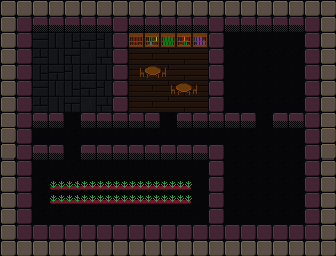
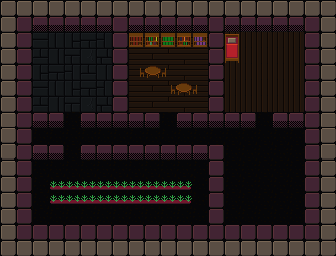
SleepHall WIP.

Changed region(s): [[0.6548, 0.125, 0.8631, 0.4375]]

diff --git a/room/service.go b/room/service.go
@@ -11,9 +11,10 @@ import (
 // Service for gathering data
 // and functionality related to rooms.
 type Service struct {
-	Storages  []Storage
-	Farms     []Farm
-	Libraries []Library
+	Storages   []Storage
+	SleepHalls []SleepHall
+	Farms      []Farm
+	Libraries  []Library
 }
 
 func NewService() *Service {
@@ -24,6 +25,15 @@ func (s *Service) Update(mp *m.Map) {
 	for _, f := range s.Farms {
 		f.Update(mp)
 	}
+}
+
+func (s *Service) AddSleepHall(mp *m.Map, currentMousePos int) {
+	x, y := globals.IdxToXY(currentMousePos)
+	sh := NewSleepHall(mp, x, y)
+	if sh == nil {
+		return
+	}
+	s.SleepHalls = append(s.SleepHalls, *sh)
 }
 
 func (s *Service) AddLibrary(mp *m.Map, currentMousePos int) {

diff --git a/ui/ui.go b/ui/ui.go
@@ -26,8 +26,10 @@ type UI struct {
 func GenerateUI() UI {
 	buildMenuButtons := []ButtonTiled{
 		{Element: Element{Text: mouse.Normal.String(), X: 34,
-			Y: 32 - 10, Width: 11, Height: 1, Color: textColor}},
+			Y: 32 - 12, Width: 11, Height: 1, Color: textColor}},
 		{Element: Element{Text: mouse.Storage.String(), X: 34,
+			Y: 32 - 10, Width: 11, Height: 1, Color: textColor}},
+		{Element: Element{Text: mouse.SleepHall.String(), X: 34,
 			Y: 32 - 8, Width: 11, Height: 1, Color: textColor}},
 		{Element: Element{Text: mouse.Farm.String(), X: 34,
 			Y: 32 - 6, Width: 11, Height: 1, Color: textColor}},

diff --git a/mouse/mode.go b/mouse/mode.go
@@ -7,23 +7,26 @@ type Mode int
 const (
 	Normal Mode = iota
 	Storage
+	SleepHall
 	Farm
 	Library
 	Delete
 )
 
 var ModeFromString = map[string]Mode{
-	"Normal":  Normal,
-	"Storage": Storage,
-	"Farm":    Farm,
-	"Library": Library,
-	"Delete":  Delete,
+	"Normal":    Normal,
+	"Storage":   Storage,
+	"SleepHall": SleepHall,
+	"Farm":      Farm,
+	"Library":   Library,
+	"Delete":    Delete,
 }
 
 func (m Mode) String() string {
 	return []string{
 		"Normal",
 		"Storage",
+		"SleepHall",
 		"Farm",
 		"Library",
 		"Delete",

diff --git a/room/sleep_hall.go b/room/sleep_hall.go
@@ -1,0 +1,26 @@
+package room
+
+import (
+	"fmt"
+	"sort"
+
+	m "github.com/Holmqvist1990/WARF2/worldmap"
+)
+
+type SleepHall struct {
+	tiles m.Tiles
+}
+
+func NewSleepHall(mp *m.Map, x, y int) *SleepHall {
+	s := &SleepHall{}
+	tiles := mp.FloodFillRoom(x, y, func() int { return m.WoodFloorVertical })
+	if len(tiles) == 0 {
+		return nil
+	}
+	sort.Sort(tiles)
+	s.tiles = tiles
+	for _, t := range s.tiles {
+		fmt.Println(t)
+	}
+	return s
+}

diff --git a/game/keyboard.go b/game/keyboard.go
@@ -31,12 +31,15 @@ func handleTileSettingInput(g *Game) {
 		g.SetMouseMode(mouse.Storage)
 	}
 	if i.IsKeyJustPressed(e.Key3) {
-		g.SetMouseMode(mouse.Farm)
+		g.SetMouseMode(mouse.SleepHall)
 	}
 	if i.IsKeyJustPressed(e.Key4) {
-		g.SetMouseMode(mouse.Library)
+		g.SetMouseMode(mouse.Farm)
 	}
 	if i.IsKeyJustPressed(e.Key5) {
+		g.SetMouseMode(mouse.Library)
+	}
+	if i.IsKeyJustPressed(e.Key6) {
 		g.SetMouseMode(mouse.Delete)
 	}
 }

diff --git a/mouse/mouse.go b/mouse/mouse.go
@@ -80,6 +80,9 @@ func (s *System) mouseClick(mp *m.Map, rs *room.Service, dwarves *[]*dwarf.Dwarf
 	case Storage:
 		rs.AddStorage(mp, currentMousePos)
 
+	case SleepHall:
+		rs.AddSleepHall(mp, currentMousePos)
+
 	case Farm:
 		rs.AddFarm(mp, currentMousePos)
 

diff --git a/worldmap/constants.go b/worldmap/constants.go
@@ -33,6 +33,8 @@ const (
 	WoodFloor2
 	WoodFloor3
 	WoodFloor4
+
+	WoodFloorVertical
 )
 const (
 	Straight = iota + 1
